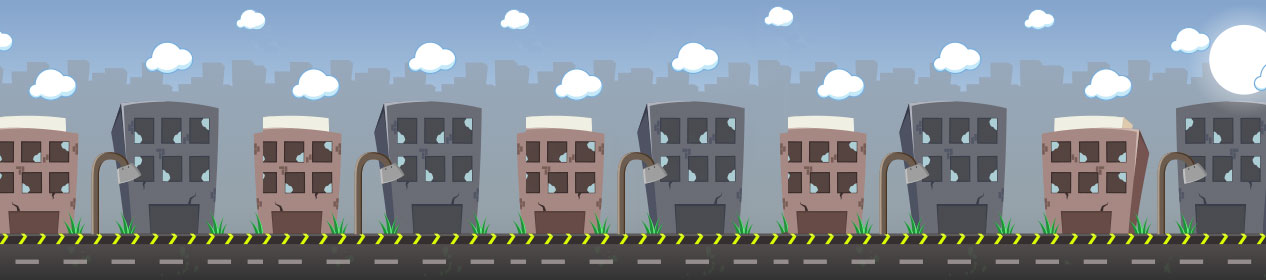
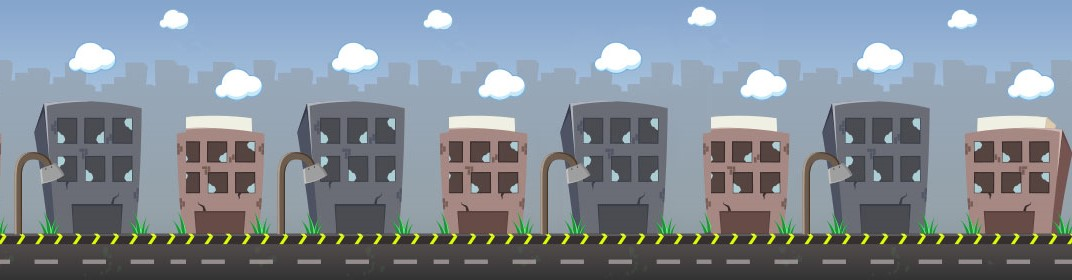
zombie-game/fix: Endless background

diff --git a/frontend/app.js b/frontend/app.js
@@ -30,10 +30,34 @@ constObj.pjs.system.setTitle('My mega game');
 
 
 // *** Objects like a man or zombie ***
-const backgr = constObj.game.newImageObject({
+const backgr1 = constObj.game.newImageObject({
+    x: 0, y:0,
     file: 'img/bg2_wide.jpg',
     scale: 1.4,
+    onload : function (){
+        backgr2.x = backgr1.x + backgr1.w;
+    }
+    
 });
+    
+const backgr2 = constObj.game.newImageObject({
+    x : backgr1.x+backgr1.w, y : 0,
+    file: 'img/bg2_wide.jpg',
+    scale: 1.4,
+
+});
+    
+const endlessBackGround = function () { // аргумент s — это скорость движения фона
+
+ if (backgr1.x + backgr1.w < man.getPosition().x-320) { // если ушел
+  backgr1.x = backgr2.x+backgr2.w; // перемещаем его сразу за вторым
+ }
+ // аналогично для второго
+ if (backgr2.x + backgr2.w < man.getPosition().x-320) {
+  backgr2.x = backgr1.x+backgr1.w; // позиционируем за первым
+ }
+
+};
 
 
 // *** ***
@@ -42,15 +66,17 @@ const Game = function () {
 
     this.update = function () {
         constObj.game.clear();
-        backgr.draw();
+        backgr1.draw();
+        backgr2.draw();
+        endlessBackGround();
         man.drawManElements();
         //man.drawStaticBox();
         zombies.spawner.restart();
         zombies.logic();
 
         if (key.isDown('RIGHT')) {
-            cam.move(point(.5, 0));
-            man.move(point(.5, 0));
+            cam.move(point(.9, 0));
+            man.move(point(.9, 0));
 
         };
         if (key.isDown('LEFT')) {
